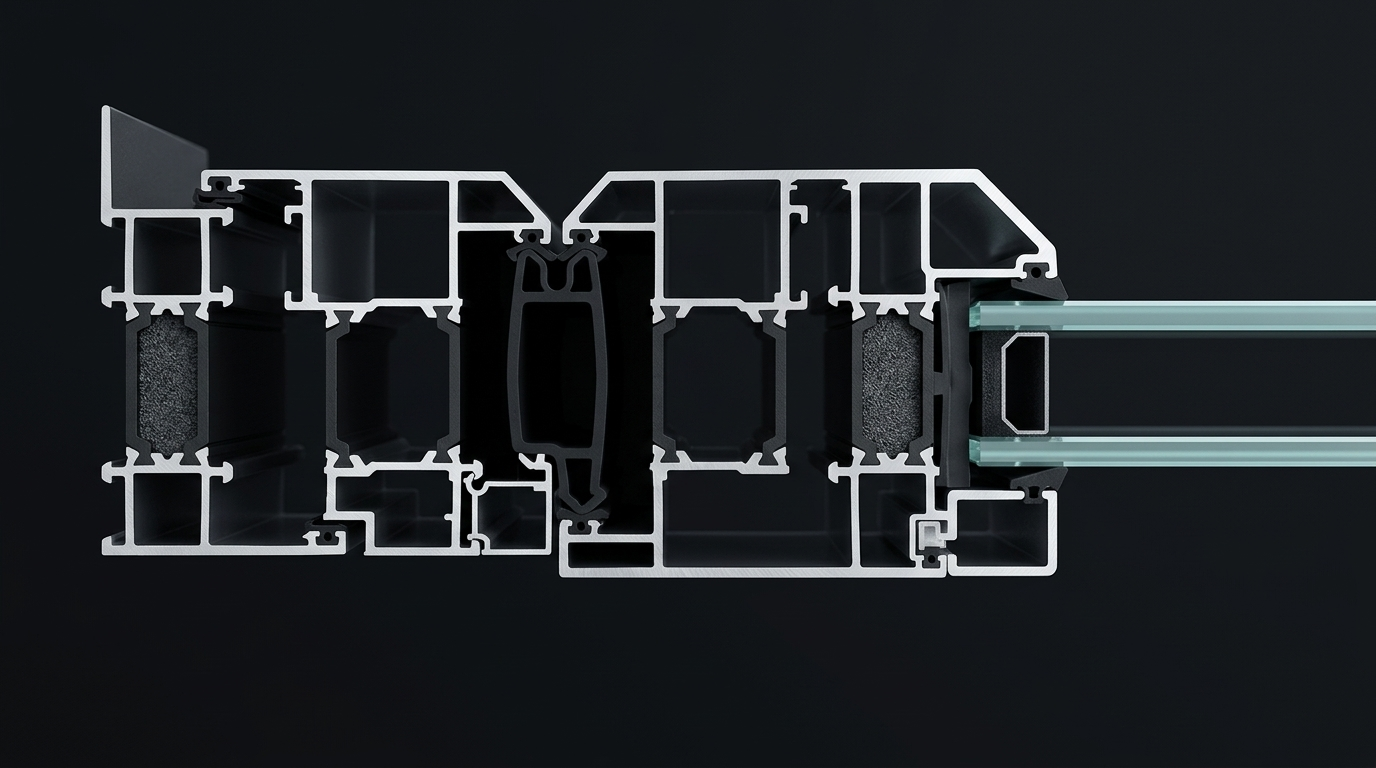
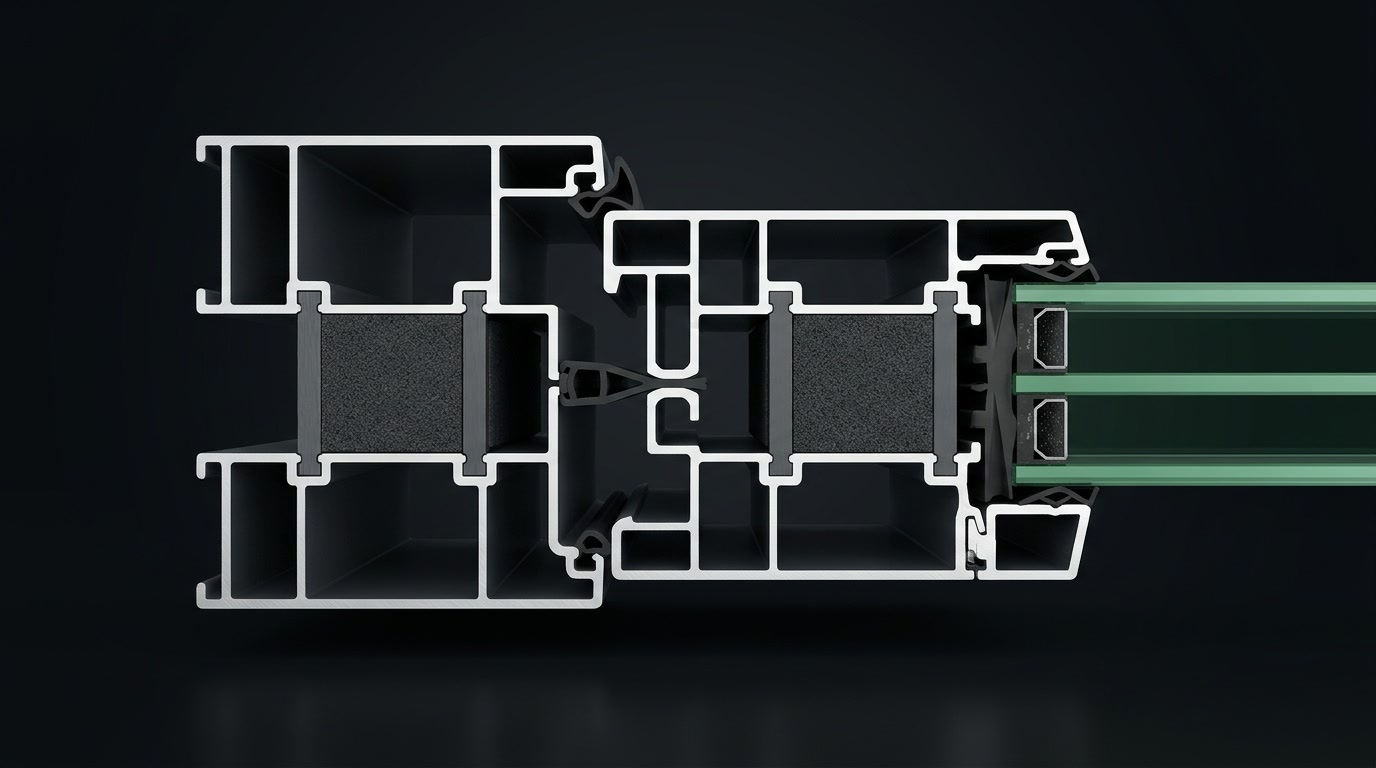
assets(ws075): replace Lambda WS 075 cross-section with accurate 1-frame 1-sash profile and align 5 hotspot pins

Changed region(s): [[0.0625, 0.125, 1.0, 0.8125]]

diff --git a/styles.css b/styles.css
@@ -2102,11 +2102,20 @@ body.apple-showcase-body .footer-links a:hover {
   border-color: var(--gold);
 }
 
-.engineering-visual-card .pin-1 { top: 44%; left: 48%; }
-.engineering-visual-card .pin-2 { top: 30%; left: 37%; }
-.engineering-visual-card .pin-3 { top: 50%; left: 55%; }
-.engineering-visual-card .pin-4 { top: 66%; left: 42%; }
-.engineering-visual-card .pin-5 { top: 49%; left: 73%; }
+.engineering-visual-card .hotspot-pin {
+  transform: translate(-50%, -50%);
+}
+
+.engineering-visual-card .hotspot-pin.is-active,
+.engineering-visual-card .hotspot-pin:hover {
+  transform: translate(-50%, -50%) scale(1.25);
+}
+
+.engineering-visual-card .pin-1 { top: 49%; left: 22.5%; }
+.engineering-visual-card .pin-2 { top: 25%; left: 44%; }
+.engineering-visual-card .pin-3 { top: 50%; left: 62.5%; }
+.engineering-visual-card .pin-4 { top: 55%; left: 49%; }
+.engineering-visual-card .pin-5 { top: 50%; left: 78%; }
 
 /* Tab details panel */
 .tab-header {
